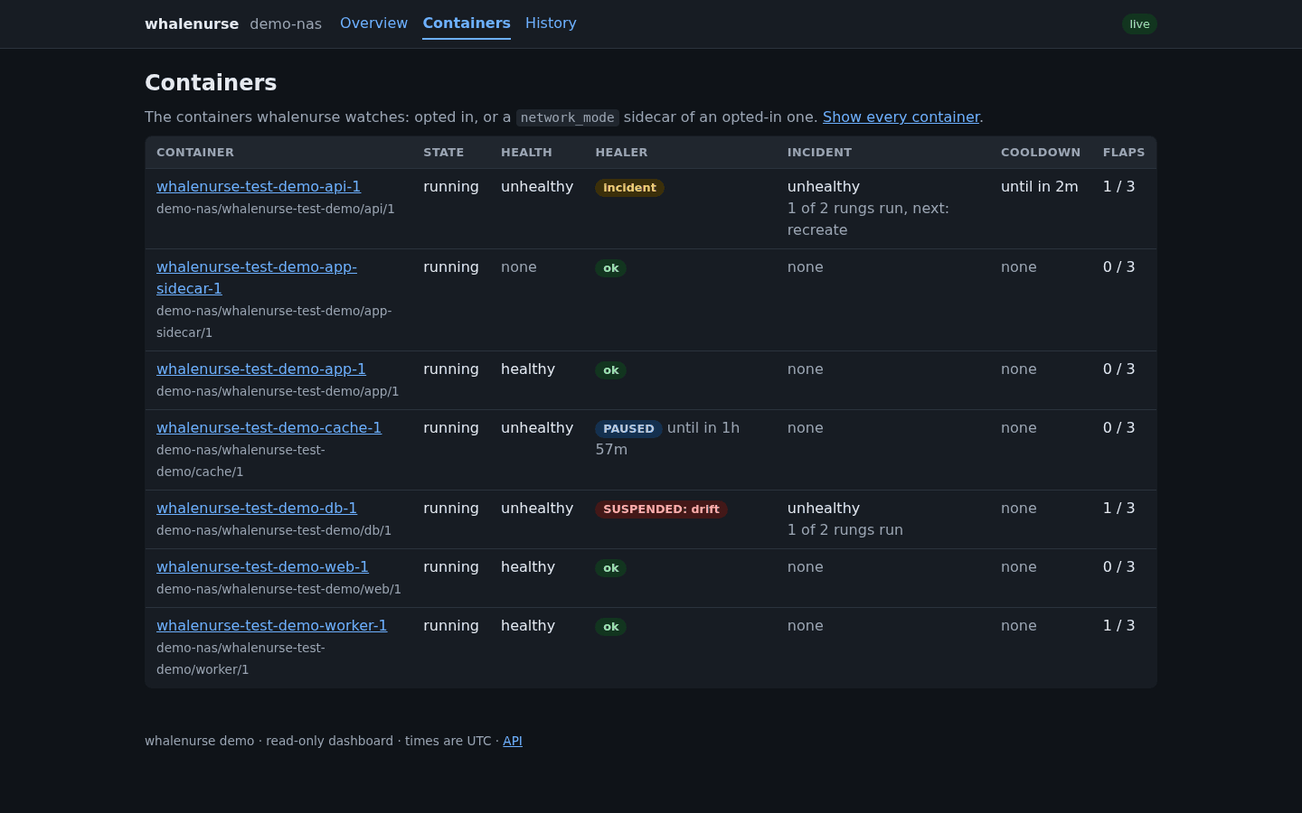
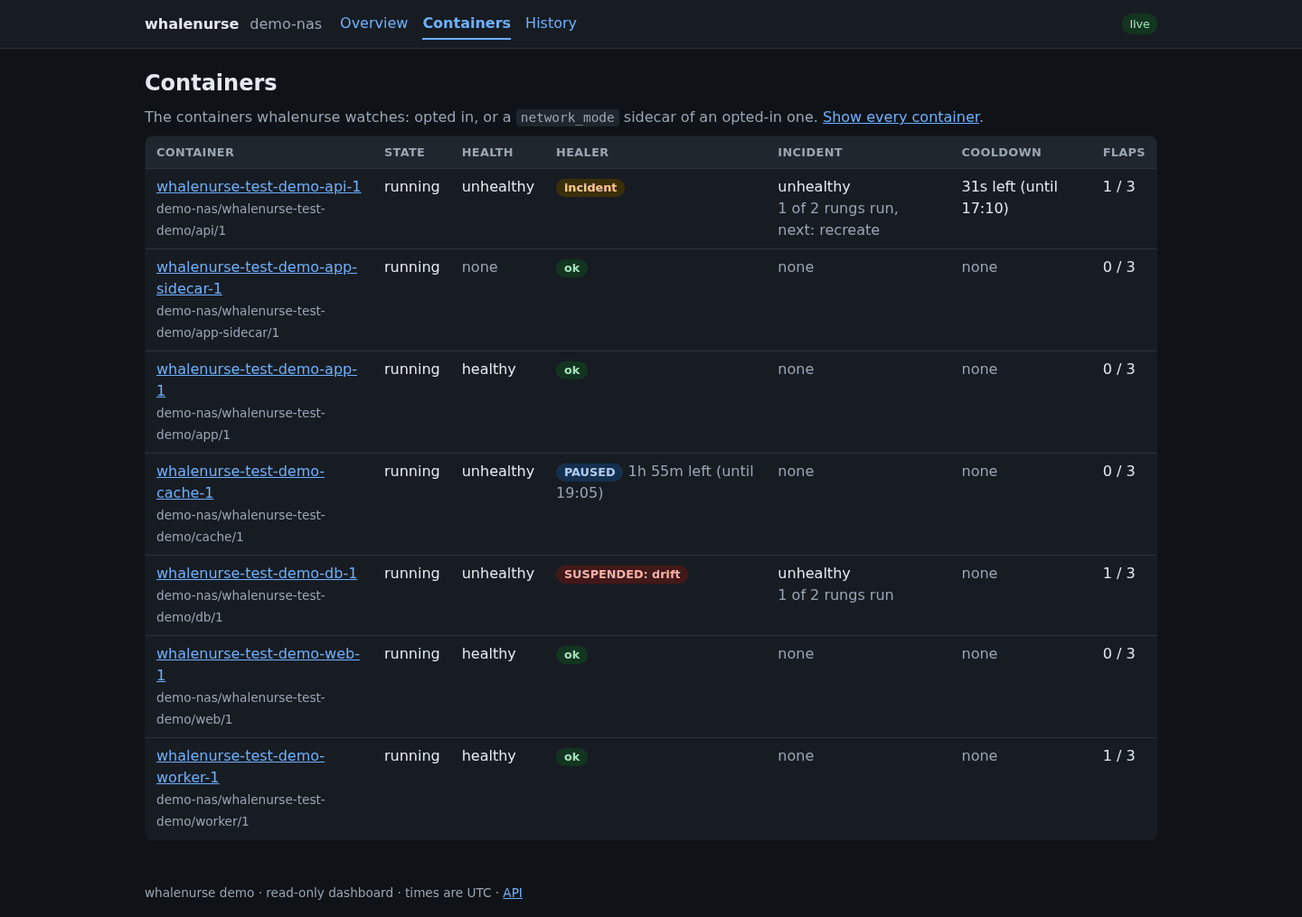
M5: retake the screenshots after the dashboard fixes (desktop, phone, tablet; light and dark); cards use a positioned label; plan v3.9 item 17, CLAUDE.md, m5-notes.md, running.md

diff --git a/internal/web/static/app.css b/internal/web/static/app.css
@@ -78,9 +78,8 @@ table.grid { width: 100%; border-collapse: collapse; background: var(--panel); b
   table.grid thead { position: absolute; width: 1px; height: 1px; overflow: hidden; clip: rect(0 0 0 0); }
   table.grid, .grid tbody, .grid tr, .grid td { display: block; width: 100%; }
   .grid tr { border-bottom: 1px solid var(--line); padding: 0.35rem 0; }
-  .grid td { display: grid; grid-template-columns: 6.5rem minmax(0, 1fr); gap: 0 0.75rem; border: 0; padding: 0.15rem 0.75rem; align-items: baseline; }
-  .grid td::before { content: attr(data-label); font-size: 0.75rem; text-transform: uppercase; letter-spacing: 0.03em; color: var(--muted); }
-  .grid td > * { min-width: 0; }
+  .grid td { display: block; position: relative; border: 0; padding: 0.15rem 0.75rem 0.15rem 8rem; min-height: 1.6rem; overflow-wrap: anywhere; }
+  .grid td::before { content: attr(data-label); position: absolute; left: 0.75rem; top: 0.3rem; width: 6.5rem; font-size: 0.75rem; text-transform: uppercase; letter-spacing: 0.03em; color: var(--muted); overflow-wrap: normal; }
   .grid td.nowrap, .grid td.nowrap time { white-space: normal; }
 }
 @media (max-width: 40rem) {

diff --git a/docs/PLAN.md b/docs/PLAN.md
@@ -1,6 +1,6 @@
 # whalenurse — implementation plan v3.9
 
-Status: **v3.9, approved by the maintainer on 19 Oct 2026** (the M5 review: it is v3.8 plus the M5 decisions below, [m5-notes.md](m5-notes.md), with the maintainer's six answers in items 11 to 16). v3.8 was approved by the maintainer on 19 Oct 2026 (the M4 review: it is v3.7 plus the M4 findings and decisions below, [m4-notes.md](m4-notes.md), with the maintainer's answers in items 11 to 15). v3.7 was approved by the maintainer on 19 Oct 2026 (the M3 review: it is v3.6 plus the M3 decisions below, [m3-notes.md](m3-notes.md), with the maintainer's four answers, items 13 to 15). v3.6 was approved by the maintainer on 18 Oct 2026 (the M2b review, including item 3 and the decisions of items 9 to 12): v3.5 plus the M2b findings ([m2b-notes.md](m2b-notes.md)); v3.5 was v3.4 plus three M2a verdicts below (the `last_seen` heartbeat, the stricter crash-loop rule, and the shutdown-window rule for containers stopped by the host), which the maintainer approved on 17 Oct 2026. v3.4 was v3.3 plus a split of milestone M2 into M2a and M2b. v3.3 was v3.2 plus the M0b verdicts ([m0b-findings.md](m0b-findings.md) §4), which the maintainer approved on 17 Oct 2026. v3.2 was v3.1 plus the two M1 verdicts ([m1-notes.md](m1-notes.md) decisions 2 and 11), and v3.1 was v3 plus the M0 verdicts ([m0-findings.md](m0-findings.md) §4). Supersedes v3.8. Facts and versions are as of 18 Oct 2026 (16 Oct for the prior-art survey).
+Status: **v3.9, approved by the maintainer on 19 Oct 2026** (the M5 review: it is v3.8 plus the M5 decisions below, [m5-notes.md](m5-notes.md), with the maintainer's six answers in items 11 to 16 and the screenshot review's fixes in item 17). v3.8 was approved by the maintainer on 19 Oct 2026 (the M4 review: it is v3.7 plus the M4 findings and decisions below, [m4-notes.md](m4-notes.md), with the maintainer's answers in items 11 to 15). v3.7 was approved by the maintainer on 19 Oct 2026 (the M3 review: it is v3.6 plus the M3 decisions below, [m3-notes.md](m3-notes.md), with the maintainer's four answers, items 13 to 15). v3.6 was approved by the maintainer on 18 Oct 2026 (the M2b review, including item 3 and the decisions of items 9 to 12): v3.5 plus the M2b findings ([m2b-notes.md](m2b-notes.md)); v3.5 was v3.4 plus three M2a verdicts below (the `last_seen` heartbeat, the stricter crash-loop rule, and the shutdown-window rule for containers stopped by the host), which the maintainer approved on 17 Oct 2026. v3.4 was v3.3 plus a split of milestone M2 into M2a and M2b. v3.3 was v3.2 plus the M0b verdicts ([m0b-findings.md](m0b-findings.md) §4), which the maintainer approved on 17 Oct 2026. v3.2 was v3.1 plus the two M1 verdicts ([m1-notes.md](m1-notes.md) decisions 2 and 11), and v3.1 was v3 plus the M0 verdicts ([m0-findings.md](m0-findings.md) §4). Supersedes v3.8. Facts and versions are as of 18 Oct 2026 (16 Oct for the prior-art survey).
 Repo: `github.com/jackspiering/whalenurse` (Go module path, GHCR image and binary are all lowercase).
 
 **Changes in v3.9** (from building M5; items 11 to 16 are the maintainer's decisions on its review; evidence, deviations and open questions in [m5-notes.md](m5-notes.md)):
@@ -20,6 +20,8 @@ Repo: `github.com/jackspiering/whalenurse` (Go module path, GHCR image and binar
 14. §3.9, §4 (maintainer decision): **DNS rebinding.** Without a token, only the Host names `localhost`, `127.0.0.1` and `[::1]` (any port, case-insensitive) and the names in the new `WHALENURSE_HTTP_ALLOWED_HOSTS` (comma or space separated; port, brackets and a trailing dot are ignored) are served; any other name gets 403 (the body never echoes the host). A browser sends the name it was given, so a page that rebinds its own name to 127.0.0.1 is refused. `/healthz` is exempt (it says only ok or not ok, and monitors reach it by IP). **With a token the Host is not checked** (a reverse proxy forwards its own name, and the token is the defence); the variable is then ignored with a warning. A client that is not a browser can send any Host: the check defends the browser case only.
 15. §3.9 (maintainer decision): **wrong-token limit: 10 per minute per client IP, then 429 with backoff.** Only requests that presented credentials and failed count (a browser's first request, before its prompt, does not). On the 10th wrong token within a minute the client is blocked for 1 minute, then 2, 4 ... up to 15 minutes for each further block (the strike count is forgotten after an hour without a failure). **While blocked every request gets 429 with `Retry-After`, a right token included** (otherwise the block would only slow guessing down); `/healthz` is exempt; a right token never resets the count. The client is the connection's peer address (IPv6: its /64); `X-Forwarded-For` is ignored because a client can forge it, so **behind a reverse proxy all users share the proxy's budget**: an attacker can lock the dashboard out for everyone, which is why the token should be long (a trusted-proxy option is a candidate for M6). The block is logged once (client IP, duration). The table holds 4,096 clients.
 16. §3.11 (maintainer decision): **a skipped rung has its own marker.** The engine counts a rung it cannot run (version gate, no compose inputs, a `pull_policy` that forbids the pull) as passed, so the page drew `✓`. The `RungUnavailable` events of the open incident (matched by the `incident` attribute) now give `healer.skipped_rungs` (`rung`, `reason`) in the API, and the pages say "recreate skipped – not available" and "1 of 3 rungs run, 1 skipped (not available)" instead of a tick.
+
+17. §3.11 (maintainer decisions after the screenshot review; evidence in [m5-notes.md](m5-notes.md) and `docs/screenshots/`): **dashboard fixes, no change to the API's contract except two optional fields.** (a) Tables become **cards up to 900 px** (was 640: a table of seven columns needs about 790 px) with each label and its value on one line, and every table sits in its own horizontally scrolling container as a safety net: no page-wide scroll at any width from 320 to 1440. (b) **A pause row links to the containers under its scope** (`/containers?scope=<project[/service]>`), and an event or incident of a container that is gone is plain text: no link leads to a 404. (c) **`EventAttributed` is hidden** in "Latest events", the timelines and History; History has a "Debug (everything)" filter and the detail page a "show them (debug)" link; `?debug=1` shows them. The JSON API still carries every event (a hub follows the cursor); `EventsQuery.HideNoise` and `engine.EventQuery.ExcludeTypes` do it, so the hidden events do not use up the 100 timeline slots. (d) **The final container name**: compose's temporary `<12 hex>_<name>` is stripped wherever a name is shown (API and pages). (e) The Time column does not wrap. (f) **Expiries read "2m left (until 14:32)"** (UTC; another day carries its date; a passed one says "ended 3m ago"). (g) Detail page: "Finished" only for a container that is not running; "Restart policy: no (compose default)"; empty labels are not shown (the JSON keeps them); no Container column in a container's own timeline and incidents; **the parent's and each dependent's state as a badge** under "Related" (new optional fields `state`, `health`, `healer_state` of `RelationDoc`). (h) Rollback: **one command per `<pre>`**, no wrapping (`white-space: pre`, `overflow-x: auto`), **a Copy button per command**, wired by `app.js` (delegated click, `navigator.clipboard` in a secure context, a hidden textarea and `execCommand` otherwise); the buttons exist only with JavaScript; the CSP is unchanged. (i) **The drift finding in plain language** ("compose would recreate this container: the configuration or the image changed since it was created"), compose's own words ("Recreate, Recreated, Starting, Started") under a "details" element, for every event text, the SUSPENDED banner and the drift card. Not changed, by design: host paths in the compose labels (they are `com.docker.compose.*` labels, §3.9) and in the rollback commands.
 
 **Changes in v3.8** (from building M4; evidence and open questions in [m4-notes.md](m4-notes.md)):
 1. §3.7, **`compose pull --policy always <svc>`**, not a bare `pull <svc>`. Upstream check (compose v5.2.0, v5.6.0 and main, `pkg/compose/pull.go`, `cmd/compose/pull.go`): `compose pull` skips an image whose `pull_policy` is `never` or `build` in every release, and `missing`/`if_not_present` when the image is already present (v5.2.0 for every tag; v5.6.0 and later only refresh `latest` and a service with no policy). A skipped pull leaves the digest unchanged and the rung would say "no newer image" for an image it never looked up. `--policy always` (present in v5.2.0 and v5.6.0) overrides the service's policy for the project, so it replaces `missing`, `if_not_present`, the refresh windows and no policy at all; **`never` and `build` are respected, not overridden** (item 14). Nothing else is added (no `--include-deps`): one service. Compose's `up` stays `--pull never --no-build`.
@@ -461,7 +463,7 @@ Limitation: the pull uses the compose child's environment (no `DOCKER_CONFIG`), 
 - **Pages:**
   - Overview: counts, healer status, compose binary and version, dry-run banner, rate-limit budget.
   - Containers: state, health, incident and rung, cooldown, flap count, badges, effective config.
-  - Container detail: timeline, inspect summary, drift status (the guard's last verdict), parent and dependents, the last upgrade with its rollback commands.
+  - Container detail: timeline (without the `EventAttributed` noise unless `?debug=1`), inspect summary, drift status (the guard's last verdict, in plain words), parent and dependents with their state, the last upgrade with its rollback commands (one per line, a Copy button each).
   - History.
 - **Tech:** `html/template`, a little vanilla JS (or vendored htmx), assets embedded with `embed`. No Node build.
 - **Hub readiness:** `host` in every record, a versioned API, monotonic per-host event IDs, UTC timestamps.

diff --git a/docs/m5-notes.md b/docs/m5-notes.md
@@ -36,11 +36,6 @@ No new dependency. The Prometheus text format is written by hand (about 100 line
 - A stream survives a server `ReadTimeout` shorter than the stream (a regression test with a 300 ms timeout and an event after 1.2 s): `net/http` does not cancel a body-less GET's request at that deadline, so no extra code was needed.
 - The attribute allow-list is complete for everything the daemon tests emit: the daemon test harness fails any event whose attribute key `api.AttrAllowed` would drop (the dashboard test's planted keys excepted), across all the M1 to M5 scenarios.
 
-## Not verified
-
-- **The pages were not looked at in a browser.** The preview tool was off for this thread, and the headless Chromium on the box lacks `libasound`/`libgbm`. The templates, the CSS (light/dark by `prefers-color-scheme`; a 40rem breakpoint that turns the tables into stacked cards) and `app.js` were reviewed by reading and tested by fetching the HTML, not by rendering. **[maintainer]** please open the dashboard once on a desktop and a phone, in both colour schemes, and tell me what looks wrong.
-- `app.js` live refresh (EventSource plus the 15 s refetch) was not exercised in a browser; the server side of the stream is covered by Go tests.
-
 ## Review follow-ups (the maintainer's answers, 19 Oct 2026; plan v3.9 items 11 to 16)
 
 1. **Basic next to bearer: approved.** Password = the token, user name ignored, the same constant-time compare. Documented as TLS only (a proxy that terminates TLS, or Tailscale Serve), or loopback; the startup text and `docs/running.md` say so.
@@ -49,6 +44,28 @@ No new dependency. The Prometheus text format is written by hand (about 100 line
 4. **DNS rebinding fixed.** Without a token: Host `localhost`, `127.0.0.1`, `[::1]` and `WHALENURSE_HTTP_ALLOWED_HOSTS`, else 403. Choices made: the port is ignored; names compare lowercase with a trailing dot stripped; list entries may carry a port or brackets (dropped); `/healthz` is exempt; with a token the Host is not checked (a proxy forwards its own name) and the variable is ignored with a startup warning; a request with no Host header (HTTP/1.0) is served. It defends against browsers only: `curl -H 'Host: localhost'` still works, which is why a network-reachable listener still wants a token.
 5. **Wrong-token limit.** 10 per minute per client IP, then 429 with `Retry-After`, with a doubling block (1, 2, 4 ... 15 minutes, strikes forgotten after an hour). Choices made: the client is the peer address (IPv6 reduced to its /64, which a client controls entirely); **`X-Forwarded-For` is ignored** (forgeable, and honouring it would let an attacker rotate addresses), so behind a reverse proxy all users share the proxy's budget and one guesser can lock everybody out; a request with no credentials is not a guess (a browser sends one before its prompt); a right token does not reset the count; **while blocked the right token also gets 429** (otherwise the block only slows guessing); `/healthz` is exempt; the block is logged once; 4,096 tracked clients. **Open for M6: a trusted-proxy option** (honour `X-Forwarded-For` from a listed proxy address) so that the budget is per real client.
 6. **Skipped rungs have their own marker.** From the open incident's `RungUnavailable` events (one read of the log per page, matched on the `incident` attribute), exposed as `healer.skipped_rungs`. The detail page says "recreate skipped – not available" and lists the reason; the list says "1 of 3 rungs run, 1 skipped (not available)". If the events were pruned by retention the marker disappears and the rung looks run again (retention is 30 days by default, longer than any open incident).
+
+## Screenshot review fixes (the maintainer's list, 19 Oct 2026; plan v3.9 item 17)
+
+The first screenshots (`docs/screenshots/`, taken from a real demo stack) showed these; the maintainer asked for them to be fixed (not the host paths in the compose labels, which stay by design), and the screenshots were retaken.
+
+1. **641 to about 790 px had a page-wide horizontal scroll** (the containers table has seven columns and needs 789 px). Cards now start at 900 px, and every table is wrapped in a `.tablewrap` that scrolls by itself. A sweep of 27 widths (320 to 1440, with 640/641 and 899/900/901) over 9 pages found no page-wide scroll and no element outside the viewport. **A bug of my own first try:** I made each `td` a two-column grid, which scatters a cell with several children (a badge and a text, a link and a key): "1 of 2 rungs run" landed in the label column and badges stretched across the card. The screenshots showed it; the label is now absolutely positioned and the content flows in the right column.
+2. **A Paused row** links to `/containers?scope=<scope>` (the containers under that pause scope, same rule as the engine). A container that is gone, or a key with no page, is plain text. `TestEveryLinkOnEveryPageWorks` follows every link of every page (also after a container was removed) and fails on any non-200; it was run against the old behaviour and fails there with the 404.
+3. **`EventAttributed` hidden** by default in "Latest events", the timelines and History, with a "Debug (everything)" filter and `?debug=1`. In the JSON API they stay (the cursor must see every event). The hidden type is excluded in the query, not after it, so it does not use up the 100 timeline slots.
+4. **Final container name**: compose's temporary `<12 hex>_<name>` is stripped in `EventDoc.Container` and `ContainerDoc.Name`. A name that merely looks like it (uppercase hex, or nothing after the underscore) is left alone.
+5. **Time column** `nowrap` on desktop (it wraps again inside a card).
+6. **Expiries** "2m left (until 14:32)", UTC, with the date when it is another day, "ended 3m ago" when it has passed. Used for the cooldown, a pause, the action budget's next slot and the restore window.
+7. **Detail page**: "Finished" only when the container is not running; "no (compose default)"; empty labels hidden in the page (the API keeps them); no Container column in the container's own timeline and incidents; the parent and each dependent show their state as a badge (`RelationDoc` gained optional `state`, `health`, `healer_state`; the badge says for example "running, unhealthy · SUSPENDED").
+8. **Cards**: label and value on one line (two columns), also for the `dl` lists on the phone.
+9. **Rollback**: one `<pre>` per command (`white-space: pre`, `overflow-x: auto`) and a Copy button for each, wired in `app.js`. Checked in Chromium: each button puts exactly its command in the clipboard, the label says "Copied" and returns to "Copy", the fallback path (no clipboard API) works, the buttons are not rendered without JavaScript, and there is no console error or CSP violation.
+11. **Drift text in plain language** with compose's raw words under "details" (the `message` template function, for every event text, the SUSPENDED banner and the drift card). It matches the one finding text the guard writes for a config change; other findings are shown as they are.
+
+Item 10 (host paths) was left as it is.
+
+## Not verified
+
+- **By a person.** The pages were checked by Playwright with headless Chromium (screenshots, an audit script for overflow, contrast, empty cells and secrets, link following, the copy buttons, a width sweep), and I looked at the screenshots. Nobody has used them in a real browser on a real phone.
+- The live refresh (EventSource plus the 15 s refetch) has been seen to start ("live" in every screenshot) but not watched over a long time.
 
 ## Open questions
 

diff --git a/docs/screenshots/README.md b/docs/screenshots/README.md
@@ -1,6 +1,6 @@
 # Dashboard screenshots (M5)
 
-Taken on 19 Oct 2026 from the branch `t3/m5-dashboard`, against a real demo stack (compose project `whalenurse-test-demo`, busybox containers only) managed by a real `whalenurse run` with the dashboard on `127.0.0.1` behind a token. Headless Chromium through Playwright, full page, device scale 1, HTTP Basic with the token as the password (the way a browser sends it). The host is called `demo-nas`; the paths are the demo stack's. Nothing here is personal data. Each image exists as `-light` and `-dark` (`prefers-color-scheme`), at `desktop` (1440×900 viewport) and `phone` (390×844, touch, mobile).
+Retaken on 19 Oct 2026 (after the review fixes) from the branch `t3/m5-dashboard`, against a real demo stack (compose project `whalenurse-test-demo`, busybox containers only) managed by a real `whalenurse run` with the dashboard on `127.0.0.1` behind a token. Headless Chromium through Playwright, full page, device scale 1, HTTP Basic with the token as the password (the way a browser sends it). The host is called `demo-nas`; the paths are the demo stack's. Nothing here is personal data. Each image exists as `-light` and `-dark` (`prefers-color-scheme`), at `desktop` (1440×900 viewport) and `phone` (390×844, touch, mobile); the three pages that matter most (`overview`, `containers`, `detail-upgraded`) also at `tablet` (768×1024), because the tables turn into cards up to 900 px.
 
 The demo state, as the pages show it (names are `whalenurse-test-demo-<service>-1`):
 
@@ -16,11 +16,13 @@ The demo state, as the pages show it (names are `whalenurse-test-demo-<service>-
 | File prefix | What it shows |
 |---|---|
 | `overview-*` | healer status, compose binary and version, the version gate, action budget, container counts, the pause with its expiry, "Needs attention" (`api`, `cache`, `db`) and the latest events |
-| `containers-*` | the watched containers with state, health, healer badges (Incident, PAUSED with expiry, SUSPENDED: drift, ok), incident and rung progress, cooldown and flap count. On the phone the table becomes stacked cards |
-| `detail-suspended-*` | `db`: the SUSPENDED banner with the cause and the `unsuspend` command, inspect summary, healer, the drift guard's verdict (blocked, with the finding), incidents, timeline, labels |
-| `detail-sidecar-*` | `app-sidecar`: the parent link under "Related" |
-| `detail-upgraded-*` | `worker`: "Last upgrade during heal" with the old and new image and the two rollback commands, the closed incident, the timeline |
+| `containers-*` | the watched containers with state, health, healer badges (Incident, PAUSED with "1h 57m left (until 19:05)", SUSPENDED: drift, ok), incident and rung progress, cooldown and flap count. Up to 900 px the table becomes cards with a label and its value on one line |
+| `detail-suspended-*` | `db`: the SUSPENDED banner with the cause and the `unsuspend` command, inspect summary, healer, the drift guard's verdict (blocked, in plain words, the compose output under "details"), incidents, timeline, labels |
+| `detail-sidecar-*` | `app-sidecar`: the parent under "Related", with a badge for its state |
+| `detail-upgraded-*` | `worker`: "Last upgrade during heal" with the old and new image and the two rollback commands (one per line, a Copy button each), the closed incident, the timeline |
 | `history-*` | incidents (two open, one recovered) and the event list with its filter chips |
-| `containers-tablet700-light.png` | **evidence of a layout problem, not a design**: the containers page at 700 px wide (a tablet in portrait), where the table is wider than the screen and the Cooldown and Flaps columns are cut off |
+| `*-tablet-*` | the same pages at 768 px: cards, no horizontal scroll |
+
+Also checked with the same demo state, headless Chromium, light: 27 widths from 320 to 1440 px (including 640/641 and 899/900/901) on 9 pages, none with a page-wide horizontal scroll or an element outside the viewport; every internal link of 27 pages returns 200; the two Copy buttons put exactly the command in the clipboard and do not exist without JavaScript; no console errors or CSP violations; lowest text contrast 5.2:1 (light) and 6.1:1 (dark); no token, user name or `/home` path in any page.
 
 To regenerate: start a demo like the one above and run Playwright against it; the script is not in the repo.

diff --git a/CLAUDE.md b/CLAUDE.md
@@ -135,6 +135,7 @@ Cross-cutting design points that span several packages:
   - **Skipped rungs**: `healer.skipped_rungs` comes from the open incident's `RungUnavailable` events (`incident` attribute); the pages say "skipped – not available", never a tick.
   - Headers on every response: the CSP of `api.CSP` (no inline script or style, no form: filters on the history page are links), `X-Frame-Options: DENY`, `nosniff`, `Referrer-Policy: no-referrer`. Templates must not use `style=`, `on*=` or inline `<script>`; a test greps every page.
   - `internal/web` imports `internal/api` only (a test checks) and renders `api.Service` documents. The detail page's drift status is the guard's **last verdict** from the event log, not a live check.
+  - **Page rules** (plan v3.9 item 17; tests in `internal/web` and `internal/daemon/dashboard_test.go`): a link only where its page exists (`eventRows`/`incidentRows` get the set of known container keys; a Paused/Resumed row links to `/containers?scope=`; `TestEveryLinkOnEveryPageWorks` crawls every link and fails on a non-200); `api.NoiseTypes` (`EventAttributed`) are hidden by `EventsQuery.HideNoise` / `ContainerOpts(key, debug=false)`, never in the JSON API; `finalName` strips compose's `<12 hex>_` prefix in `EventDoc` and `clean`; expiries go through `expiry` ("2m left (until 14:32)"); drift text goes through `message` (plain sentence, raw output under `<details>`); tables are cards up to 900 px (CSS: the label is absolutely positioned, the content flows: do not use grid on `td`, it scatters multi-element cells) and sit in `.tablewrap`; rollback commands are one `<pre>` each with `data-copy` buttons that `app.js` wires (shown only under `.js`). Do not add inline script, style or handlers.
   - Daemon side: `daemon.view` (the last list, plus per key the last inspect and decision) is written by the loop and read by HTTP goroutines under an `RWMutex`; the loop's own `idx` stays single-goroutine. `daemon.NewAPI` wires the service; `engine.Engine.View()` is the engine's snapshot of every key.
   - `/metrics` is hand-written Prometheus text, only with `WHALENURSE_METRICS=true`, behind the token.
   - Integration test: `test/integration/dashboard_test.go` runs the image with the dashboard published on `127.0.0.1:<random port>`, with and without a token.

diff --git a/docs/running.md b/docs/running.md
@@ -144,7 +144,7 @@ services:
 | `/` | overview: healer status, compose binary and version, version gate, dry-run banner, action budget, counts, pauses, notifications, what needs attention |
 | `/containers`, `/containers?all=1` | the watched containers (opted in, or sidecars of an opted-in one), or every container |
 | `/containers/<key>` | inspect summary, ladder and incident, SUSPENDED/PAUSED with reason and expiry, the drift guard's last verdict, parent and dependents, last upgrade with the rollback commands, timeline |
-| `/history` | incidents and events, filterable |
+| `/history` | incidents and events, filterable. The noisy `EventAttributed` events (a Docker event during a whalenurse action) are hidden; "Debug (everything)" or `?debug=1` shows them, and so does `?debug=1` on a container page |
 | `/api/v1/status`, `/containers`, `/containers/<key>`, `/events?since=<id>&limit=&key=&type=`, `/incidents` | JSON. Every record has `host`, times are UTC, `events` ids are monotonic per host and survive restarts; `next` is the cursor to ask for next, `reset: true` means the cursor was ahead of this host (start over) |
 | `/api/v1/stream` | server-sent events; resume with `Last-Event-ID` or `?since=` |
 | `/metrics` | Prometheus text, only with `WHALENURSE_METRICS=true` |
